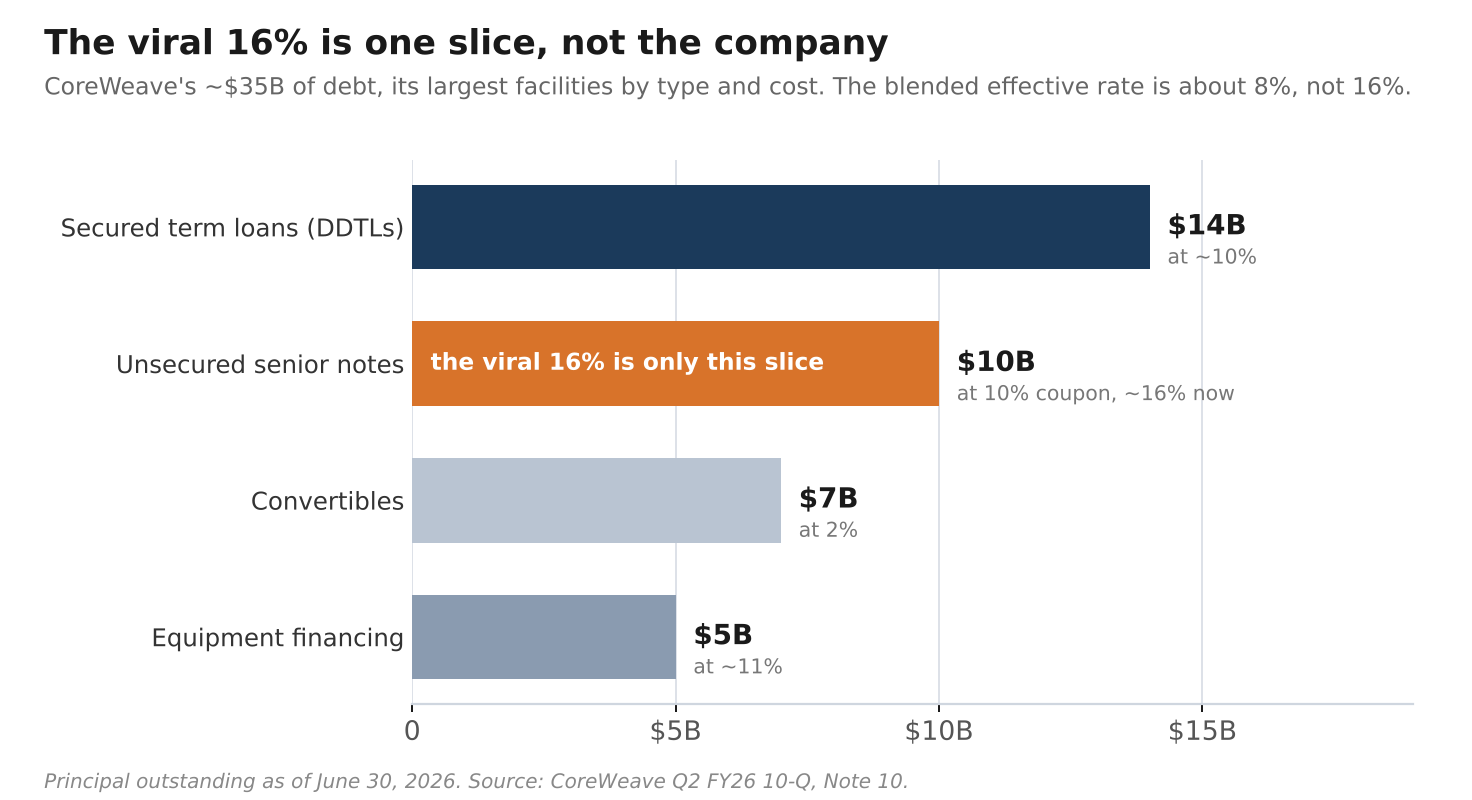
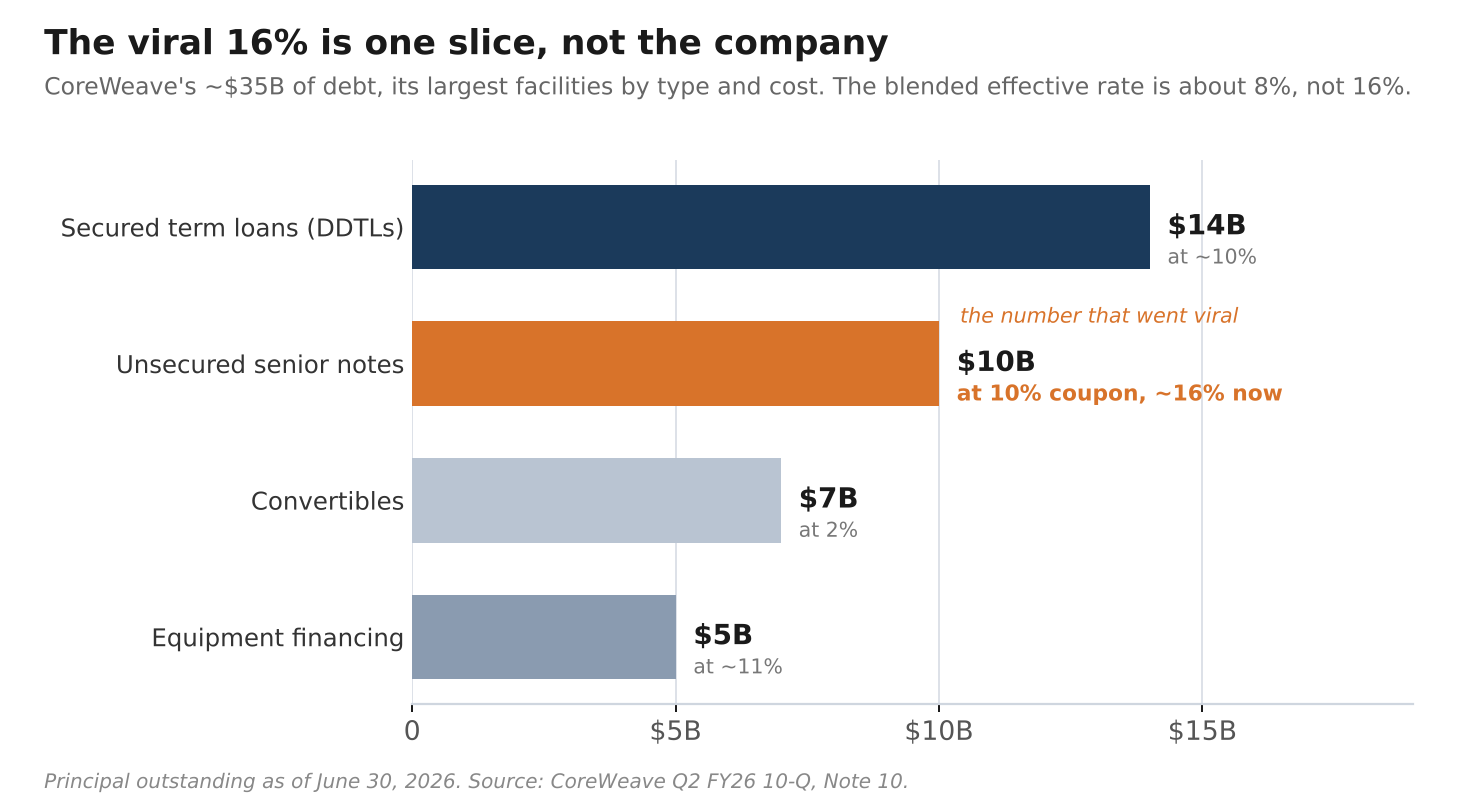
Redesign debt-chart 16% callout; make $279B a Post 1 callback; clarify vertical integration as a strength
- Debt chart: drop in-bar white text; unsecured rate now bold orange with an italic
  'the number that went viral' kicker, so 16% ties to its bar by colour and position
- $279B supply bet reframed as a callback to Post 1 rather than a re-report
- 'the circle is vertical integration, and a strength' makes the bullish read explicit

Claude-Session: https://claude.ai/code/session_01HDhTLet2AMqpzZaHVpR8SL

Changed region(s): [[0.2812, 0.4375, 0.5625, 0.4688], [0.6562, 0.4688, 0.875, 0.5], [0.6562, 0.375, 0.8438, 0.4062]]

diff --git a/charts/make_charts.py b/charts/make_charts.py
@@ -146,16 +146,22 @@ y = list(range(len(rows)))[::-1]  # first row on top
 
 fig, ax = plt.subplots(figsize=(9.2, 5.0))
 ax.barh(y, amounts, color=bcolors, height=0.62, zorder=3)
-# amount in bold + rate in a readable grey, both to the right of the bar
-for yi, amt, rate in zip(y, amounts, rates):
+# amount in bold + rate underneath, both to the right of the bar.
+# the unsecured row (the viral 16%) gets its rate in bold orange so the
+# number ties to its bar by colour and position, no clutter on the bar.
+for i, (yi, amt, rate) in enumerate(zip(y, amounts, rates)):
+    is_viral = (i == 1)
     ax.annotate(f"${amt}B", (amt, yi), xytext=(8, 0), textcoords="offset points",
                 va="center", ha="left", fontweight="bold", color=INK, fontsize=12.5)
     ax.annotate(f"at {rate}", (amt, yi), xytext=(8, -14), textcoords="offset points",
-                va="center", ha="left", color="#777", fontsize=9.2)
+                va="center", ha="left",
+                color=ORANGE if is_viral else "#777",
+                fontweight="bold" if is_viral else "normal",
+                fontsize=9.8 if is_viral else 9.2)
 
-# label the 16% directly on the bar it belongs to, in white
-ax.annotate("the viral 16% is only this slice", xy=(0.35, y[1]),
-            va="center", ha="left", color="white", fontweight="bold", fontsize=10.5)
+# one quiet orange kicker in the whitespace beside the viral bar
+ax.annotate("the number that went viral", xy=(10.4, y[1] + 0.34),
+            va="center", ha="left", color=ORANGE, fontsize=9.3, style="italic")
 
 ax.set_yticks(y)
 ax.set_yticklabels(labels, fontsize=11, color="#333")

diff --git a/post2-draft.md b/post2-draft.md
@@ -68,7 +68,7 @@ Stand on one campus in Ohio and look at who NVIDIA is on it. It owns a stake in 
 
 There is a precedent for this, and it is not a happy one. In 1999 Lucent was the most valuable equipment maker in the world, and to win orders it lent its own customers the money to buy its gear. The revenue looked spectacular. Then the telecom bubble burst, the customers it had financed could not pay, and Lucent lost the loans and the sales in the same breath. The stock fell about 99%. Vendor financing is wonderful on the way up and radioactive on the way down, because when it turns it hits you twice.
 
-So is NVIDIA Lucent? The honest answer rests on one thing, and it is the same thing this whole post rests on. If the end demand is real, the circle is ordinary ownership: NVIDIA has taken a stake in every layer above its chips, the labs that build the models and the clouds that run them, and got there first. If the demand was financed into being, the circle is Lucent, and the day it turns, NVIDIA takes an equity write-down, a guarantee call and a collapse in orders in the same quarter.
+So is NVIDIA Lucent? The honest answer rests on one thing, and it is the same thing this whole post rests on. If the end demand is real, the circle is vertical integration, and a strength: NVIDIA has taken a stake in every layer above its chips, the labs that build the models and the clouds that run them, and got there first. If the demand was financed into being, the circle is Lucent, and the day it turns, NVIDIA takes an equity write-down, a guarantee call and a collapse in orders in the same quarter.
 
 Here is where 1999 and 2026 part ways. Lucent's customers had almost no paying users. The internet had not learned to make money, so the fiber they overbuilt sat dark for a decade. NVIDIA's customers are the opposite: the labs already earn tens of billions from people and enterprises who pay, and the product is not a promise, it is woven into software and security firms sell today, from ServiceNow to the cyber stack. That is not proof the whole build pays off at these prices, and I put the numbers on it in the next section. It is the one thing Lucent never had, real money arriving at the far end of the circle.
 
@@ -78,7 +78,7 @@ So the circularity is not a separate risk to file next to the others. It is the 
 
 More likely than not, yes, and the reason sits one layer above the labs themselves. AI demand is real and still compounding: Anthropic more than tripled revenue in three quarters, from $4.7 billion to $16.8 billion, and turned the corner on its unit economics (FT), while OpenAI is running at about $50 billion net and projecting $70 billion by year-end. And the labs do not have to self-fund to keep paying. They have backers with every reason to keep them alive, Microsoft behind OpenAI, Google and Amazon behind Anthropic, though none is obligated to, and Microsoft has spent this year stepping back, ending Azure exclusivity in April and dropping its revenue share. The incentive is there; the backstop is softer than it looks.
 
-NVIDIA is voting the same way with its own money. This quarter it more than doubled its supply commitments, to $279 billion from $119 billion a quarter earlier, most of it memory and manufacturing booked against long-term demand. Much of that is cancelable, so it reads as a confidence signal more than a hard commitment. But doubling your bet on supply, into the teeth of a memory shortage, is not what a company does when it expects the orders to thin.
+NVIDIA is voting the same way with its own money, the supply bet I walked through last time: it more than doubled its purchase commitments in a quarter, to $279 billion, most of it memory booked against years of demand. Much of it is cancelable, so it is a confidence signal more than a hard promise. But you do not double it into a shortage you expect to fade.
 
 So the thing that actually ends this is a funding failure, not a collapse in demand. OpenAI has to keep raising, into a market that just repriced, and if a round shrinks or a lender balks, the compute it already committed to stops getting paid for long before any customer stops wanting it. That is why I watch the credit tape and not the rent, and why the two numbers on my dashboard are CoreWeave's next raise and OpenAI's.
 
